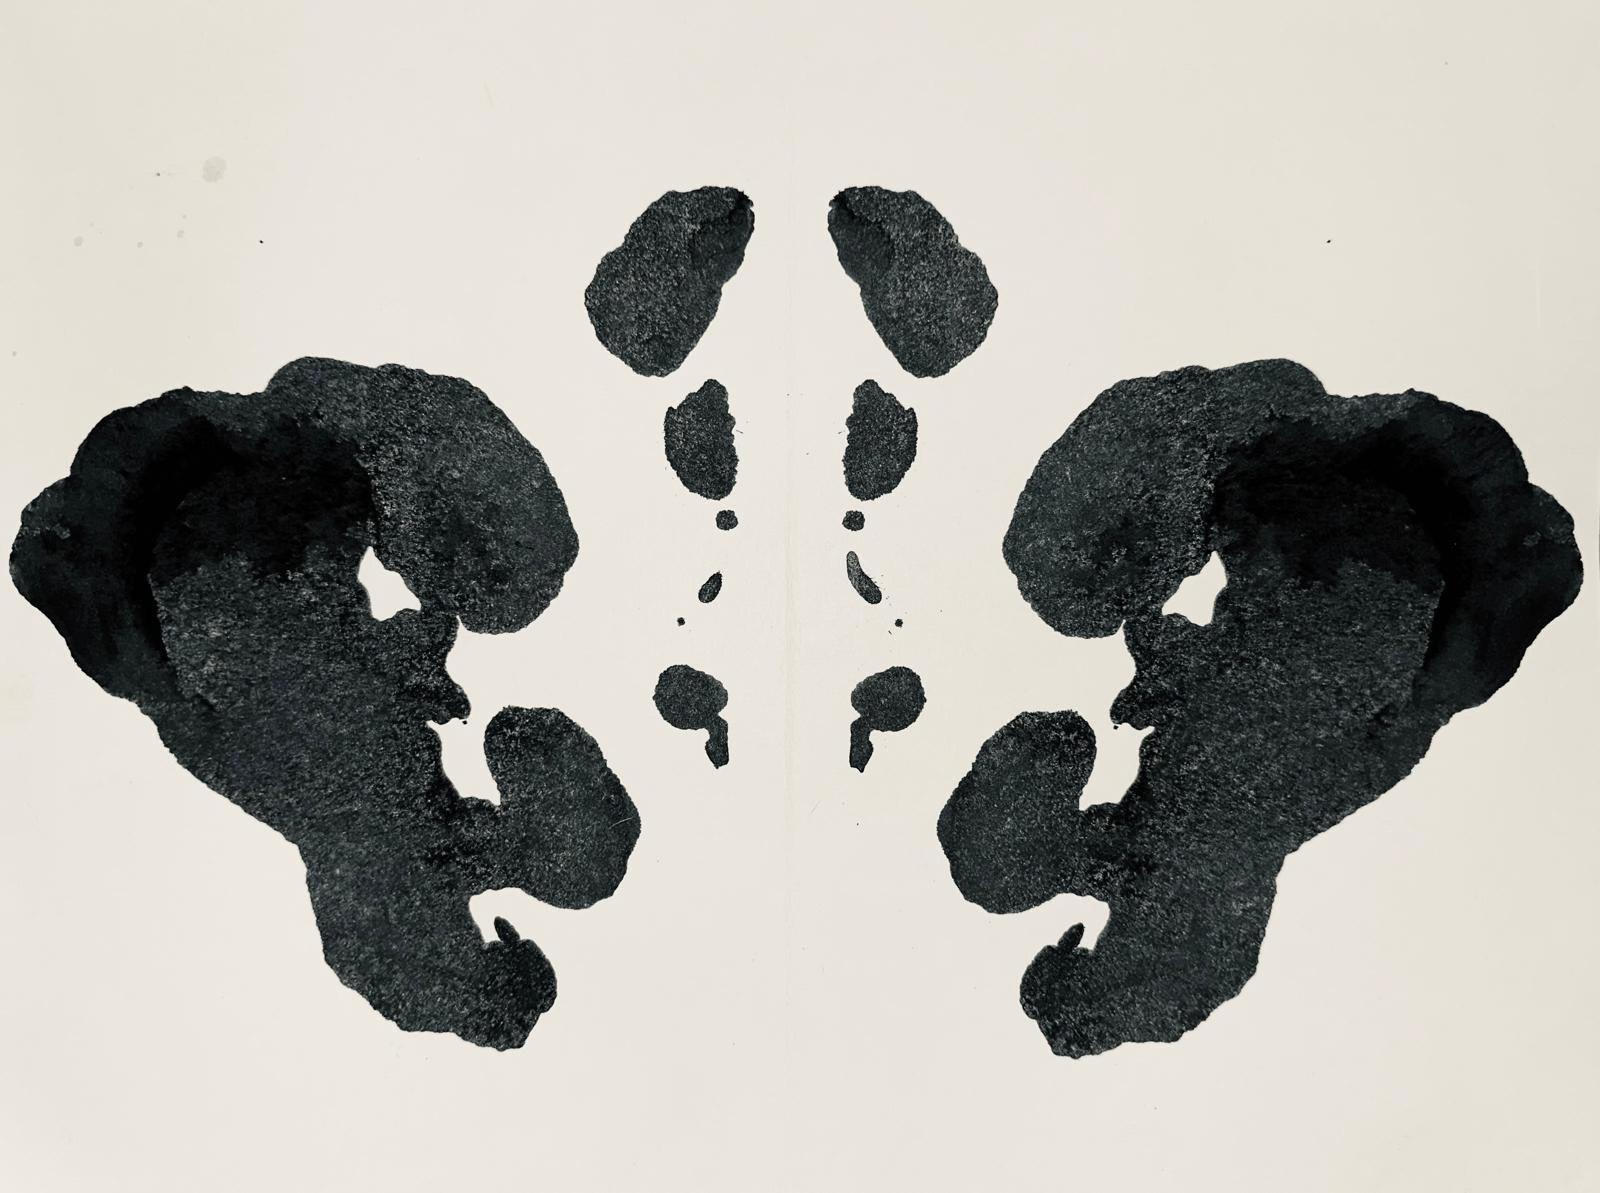
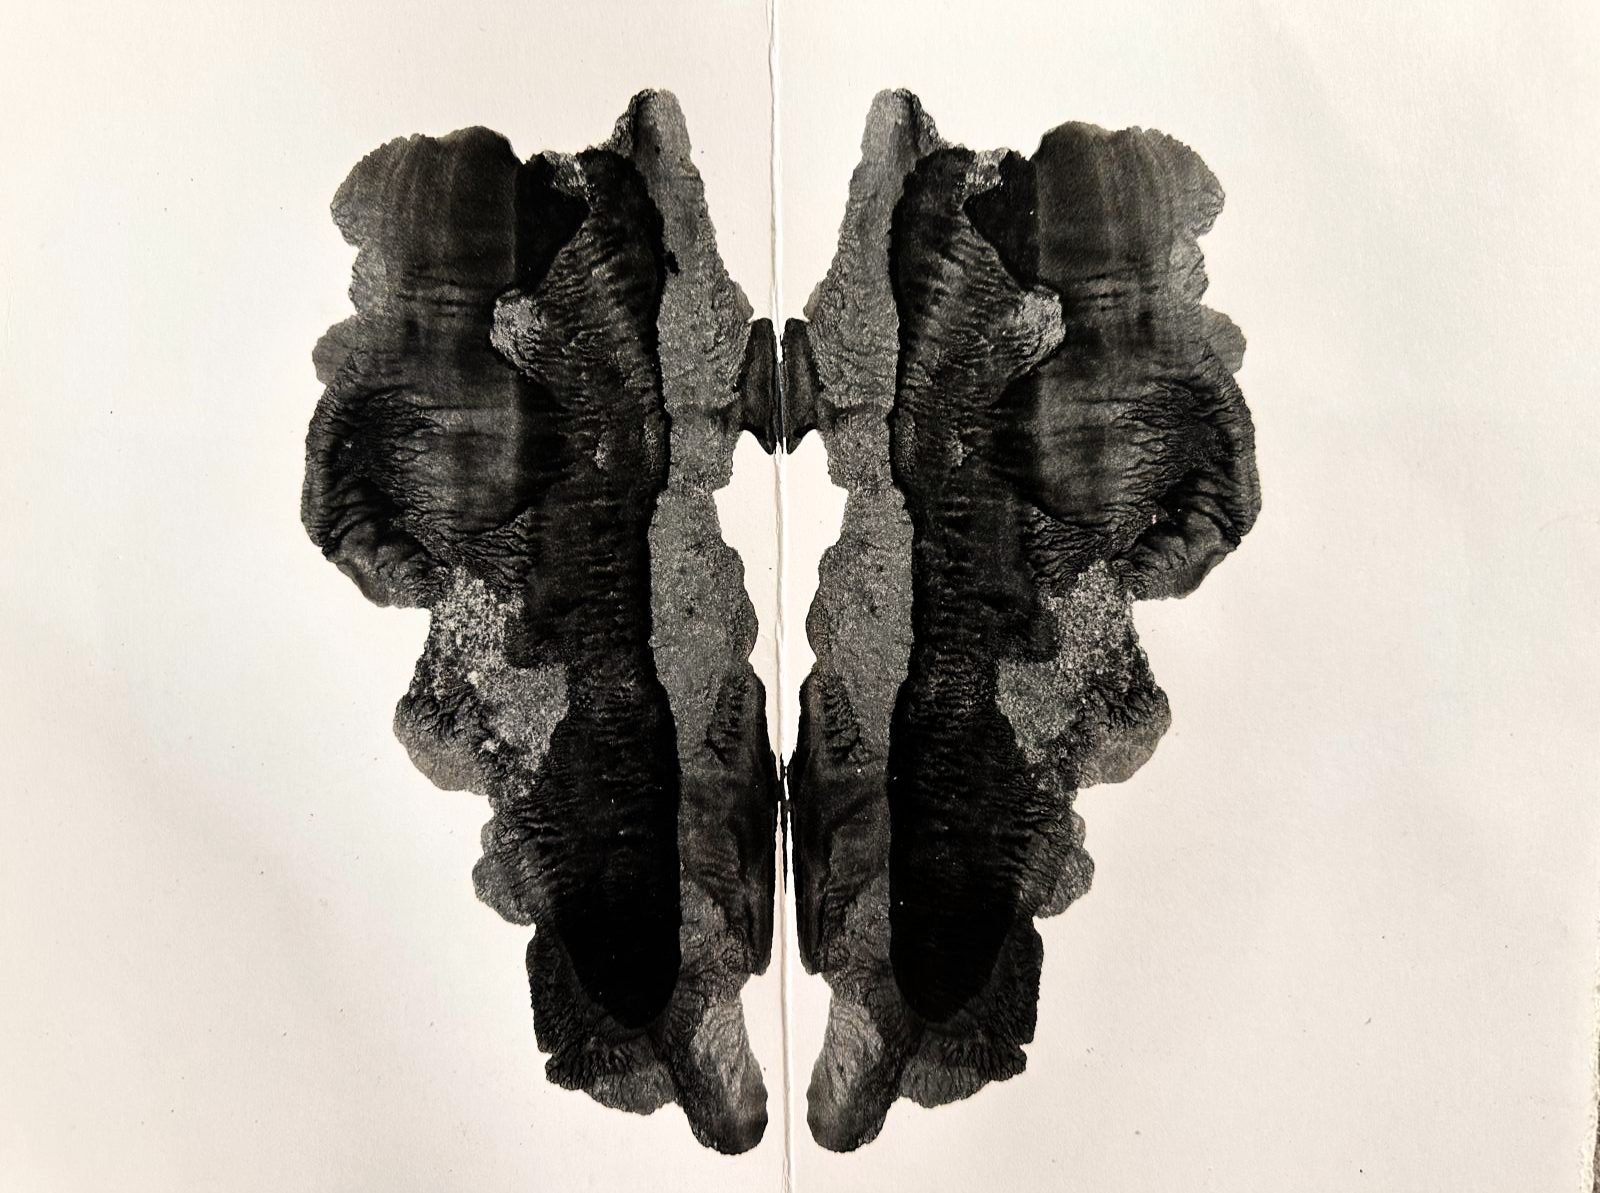
study styling

diff --git a/src/styles/global.css b/src/styles/global.css
@@ -4,12 +4,11 @@
 
 :root {
     --light: #ebe5df;
-    --dark: #130b0b;
+    --dark: #181818;
     --muted: #a8a8a8;
     --glow: rgba(0, 255, 149, 0.95);
     --glow-dark: rgba(0, 255, 200, 0.5);
 
-    /* Use Astro's injected font variable with reliable fallbacks */
     --machine-text: var(--font-vt323, "VT323", monospace);
 }
 
@@ -77,7 +76,7 @@ main {
 h1,
 h2,
 h3 {
-    font-family: Arial, Helvetica, sans-serif;
+    font-family: var(--font-syne-mono);
     color: rgb(240 255 240 / 95%);
     letter-spacing: 0.05em;
 
@@ -147,14 +146,7 @@ a.machine-link,
     padding: 0;
     margin: 0;
 
-    background: transparent;
-    border: none;
-    box-shadow: none;
-
-    text-shadow: 0 0 6px var(--light);
-
     transition: background 150ms ease, color 150ms ease, text-shadow 150ms ease, box-shadow 150ms ease;
-    user-select: none;
     justify-items: center;
 }
 
